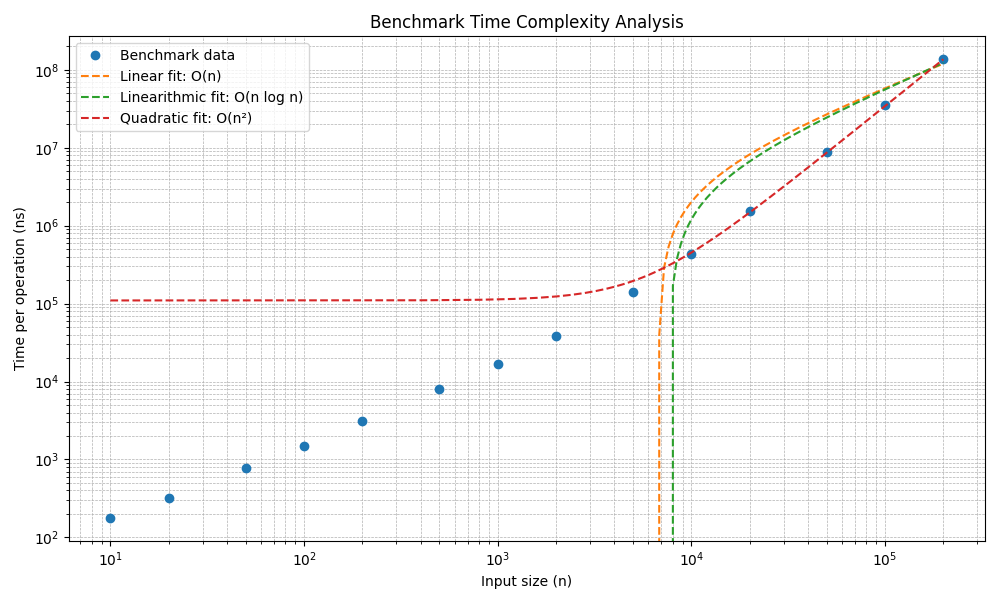
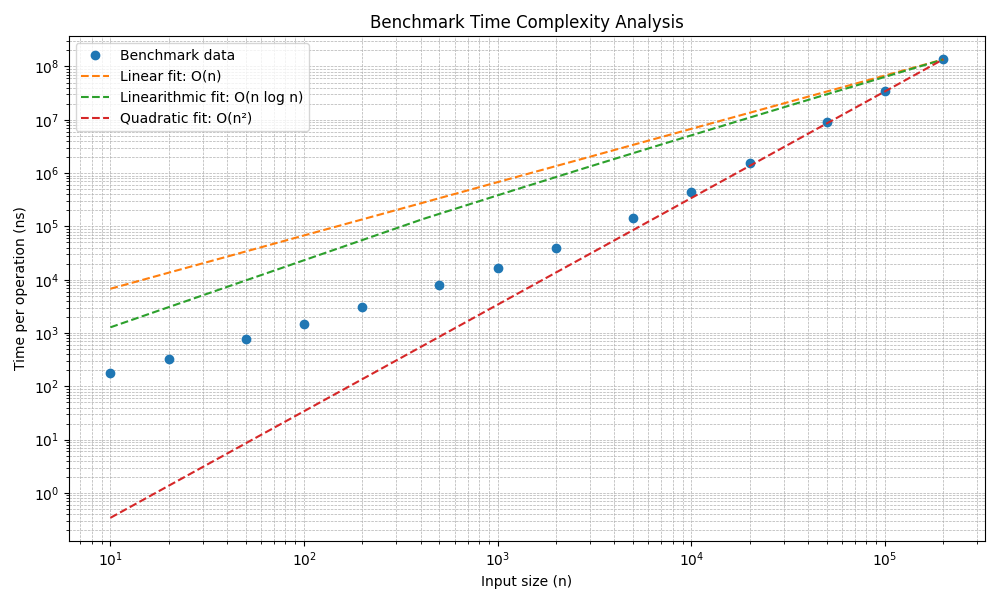
update figure and readme

diff --git a/README.md b/README.md
@@ -1,0 +1,63 @@
+# Layup Sequence Benchmark
+
+## Running the Program
+
+You can run the program with:
+
+```bash
+go run layup_sequence.go
+```
+
+Or build and run the binary:
+
+```bash
+go build -o layup-sequence
+./layup-sequence
+```
+
+### Command-Line Argument
+
+The program accepts a single argument:
+
+```
+-n=VALUE
+```
+
+- `VALUE` must be an integer **between 3 and 100000**
+- If omitted, the default is **10000**
+
+Example:
+
+```bash
+./layup-sequence -n=5000
+```
+
+## Algorithm Overview
+
+The algorithm computes the `n`-th term by iterating linearly from 1 to `n`. At each step, the current value is calculated based on the two preceding values.
+
+- Uses Go's `math/big` standard library for arbitrary-precision arithmetic, allowing it to handle very large integers.
+
+## Time Complexity
+
+Although the algorithm performs `O(n)` steps, each step involves operations on increasingly large integers. This significantly impacts real-world performance:
+
+- The size of the integers grows roughly **exponentially**, so the **number of digits** grows **linearly** with `n`.
+- Integer operations like addition and multiplication scale with the number of digits:
+    - Addition: `O(d)`
+    - Multiplication: `O(d log d)` or worse
+
+As a result, the actual time complexity lies between:
+
+```
+O(n log n) and O(n²)
+```
+
+As you can see, the performance initially looks to be scaling linearly, but becomes more in line with an exponential growth as the number of digits increases.
+![Layup Sequence Benchmark](Figure_1.png)
+
+## Optimization Notes
+
+One key optimization during development:
+
+- I initially used a slice to hold all the previously computed values in the sequence, but I realized I only needed to keep track of the most recent 2, so I switched my slice for two discrete variables.
